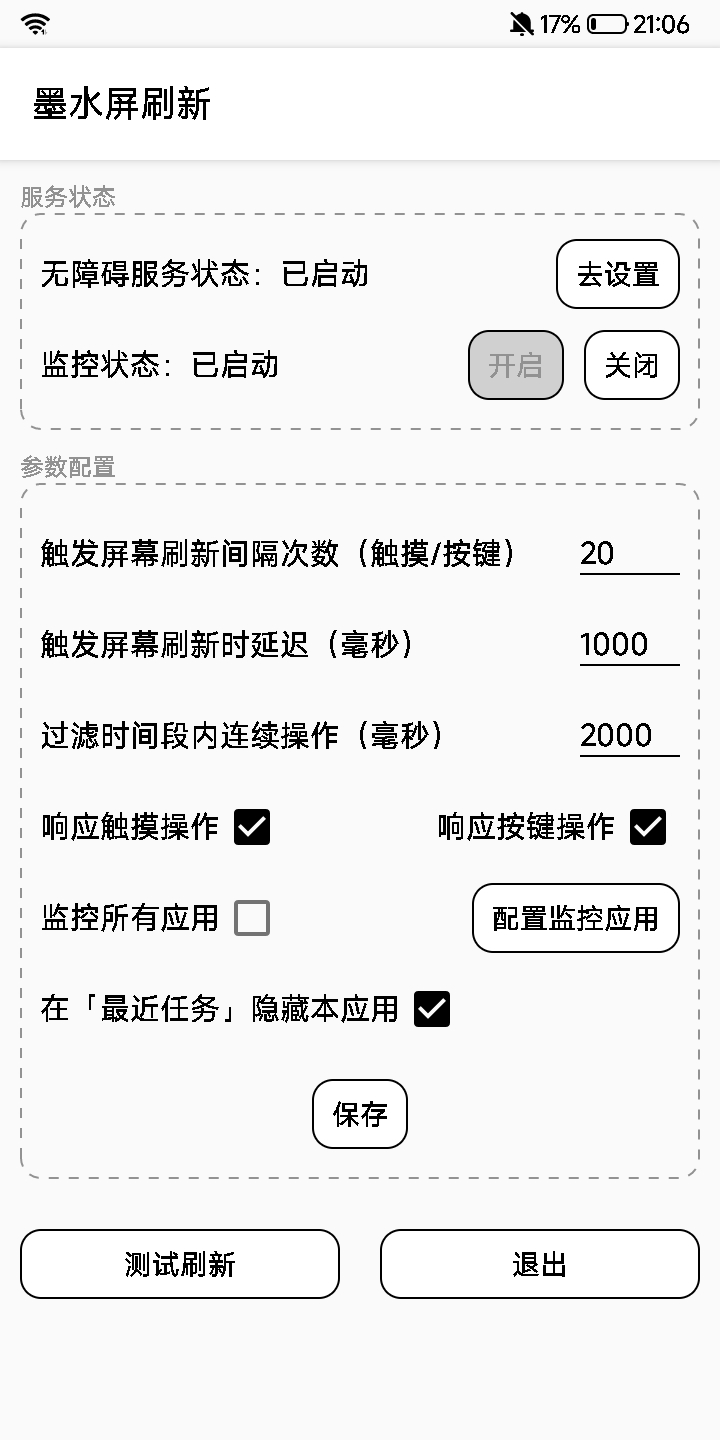
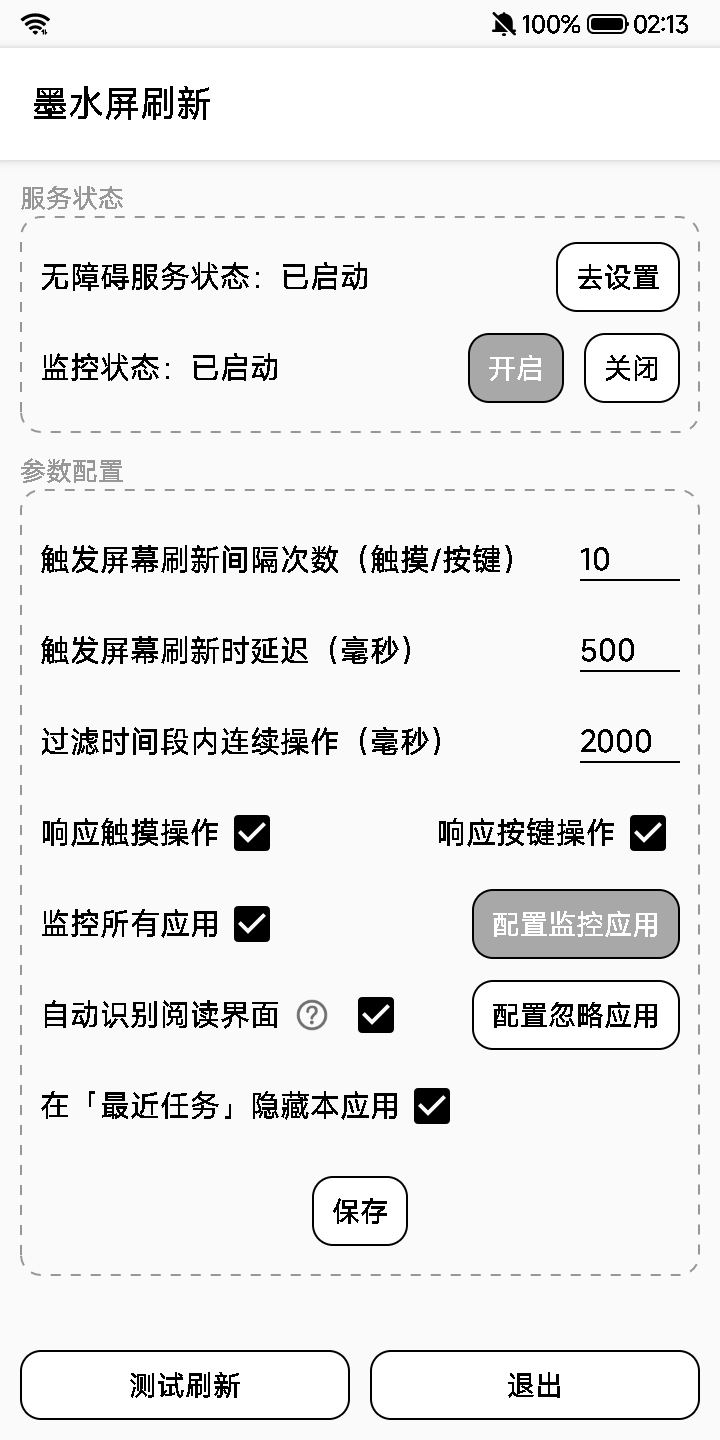
v1.3.0 增加锁屏状态获取，更新README

diff --git a/app/src/main/java/com/liziwa/hisense_autorefresh/EInkAccessibilityService.kt b/app/src/main/java/com/liziwa/hisense_autorefresh/EInkAccessibilityService.kt
@@ -119,6 +119,9 @@ class EInkAccessibilityService : AccessibilityService(), View.OnTouchListener {
         super.onCreate()
         XLog.d("无障碍服务创建")
         val filter = IntentFilter(ACTION_CONFIG_CHANGE)
+        // 监听屏幕息屏/亮屏，用于锁屏时重置计数
+        filter.addAction(Intent.ACTION_SCREEN_OFF)
+        filter.addAction(Intent.ACTION_SCREEN_ON)
         prefs = AppPreferences.getInstance(applicationContext)
         ContextCompat.registerReceiver(
             this,
@@ -131,8 +134,19 @@ class EInkAccessibilityService : AccessibilityService(), View.OnTouchListener {
 
     val myReceiver: BroadcastReceiver = object : BroadcastReceiver() {
         override fun onReceive(context: Context?, intent: Intent?) {
-            if (intent?.action == ACTION_CONFIG_CHANGE) {
-                updateConfig()
+            when (intent?.action) {
+                ACTION_CONFIG_CHANGE -> updateConfig()
+                // 进入锁屏/息屏：重置操作计数，避免锁屏前的操作遗留
+                Intent.ACTION_SCREEN_OFF -> {
+                    XLog.d("屏幕息屏（锁屏），重置操作计数")
+                    clickCount = 0
+                    setReadingState(false)
+                }
+                // 亮屏解锁：恢复默认阅读态（自动识别开启时由读屏重新判定）
+                Intent.ACTION_SCREEN_ON -> {
+                    XLog.d("屏幕亮屏（解锁），重置阅读态等待重新判定")
+                    setReadingState(false)
+                }
             }
         }
     }

diff --git a/app/src/main/java/com/liziwa/hisense_autorefresh/activity/AppsActivity.kt b/app/src/main/java/com/liziwa/hisense_autorefresh/activity/AppsActivity.kt
@@ -62,6 +62,8 @@ class AppsActivity : AppCompatActivity(), View.OnClickListener, CoroutineScope {
         job = Job()
         prefs = AppPreferences.getInstance(applicationContext)
         mode = intent?.getStringExtra(EXTRA_MODE) ?: MODE_MONITOR
+        // 按模式设置标题：监控模式显示“监控应用列表”，忽略应用(白名单)模式显示“忽略应用列表”
+        setTitle(if (mode == MODE_READING_WHITELIST) R.string.title_activity_apps_whitelist else R.string.title_activity_apps)
         XLog.d("AppsActivity: onCreate mode=$mode")
 
         binding.btnSave.setOnClickListener { this.onClick(it) }

diff --git a/README.md b/README.md
@@ -1,21 +1,98 @@
-# Hisense E-ink auto refresh
+# Hisense E-ink Auto Refresh（海信墨水屏自动刷新）
 
-海信墨水屏自动刷新屏幕工具，参考自RefreshAi，由于没有中文所以自己简单做了一款，可以监控在指定APP下的触摸、按键等操作次数，并根据间隔次数刷新墨水屏，可以有效解决阅读时墨水屏残影的问题。
+海信墨水屏设备的**强制全屏刷新**工具。监控前台应用内的触摸 / 按键操作次数，达到设定阈值后调用厂商 EPD 接口执行一次全局刷新，有效消除阅读时的墨水屏残影。
 
+> 参考自 RefreshAi 项目；因原项目无中文且功能有限，故自行实现并补充了阅读界面自动识别等能力。
 
+---
 
-使用方法：
+## 功能特性
 
-1. 电脑安装adb驱动（请自行搜索下载）
+- **操作计数刷新**：统计指定范围内的触摸 / 按键操作，累计达到「刷新间隔」后自动刷新一次。
+- **监控范围可配**：
+  - 监控所有应用（默认）
+  - 仅监控指定应用（「配置监控应用」）
+- **自动识别阅读界面**：开启后，切换界面延迟 1 秒读屏统计文字量，**正文文字超过阈值（默认 150 字）才判定为阅读界面并计入操作**，避免在非阅读界面（如菜单、设置）误刷新。
+- **忽略应用（白名单）**：部分付费阅读应用加密后无法读屏，可加入白名单，**直接视为阅读界面并跳过读屏**，优先级最高（即使是系统应用命中白名单也生效）。
+- **系统应用自动跳过**：切换到的界面若是系统应用，默认不作为阅读界面、跳过读屏。
+- **锁屏重置**：进入锁屏 / 息屏时自动重置操作计数与阅读状态，解锁后重新判定，避免残留计数误触发刷新。
+- **开机自启**：设备重启后自动拉起无障碍服务与监控。
+- **E-ink 友好 UI**：去除按钮 / 复选框按下效果与列表回弹光晕，适配墨水屏刷新慢、无色彩反馈的特性。
 
-2. 打开开发者选项里的USB调试，并把设备连接到电脑，在弹框询问是否允许USB调试时选择 **允许**
+---
 
-3. 使用cmd执行adb命令  `adb shell settings put global hidden_api_policy 0` 此时屏幕没有任何输出，
+## 工作原理
 
-   然后再次执行 ` adb shell settings get global hidden_api_policy` 此时屏幕输出 `0` 表示命令执行成功
+- 通过 **AccessibilityService**（`TYPE_WINDOW_STATE_CHANGED` + `TYPE_VIEW_CLICKED`）监听前台界面切换与用户操作。
+- 界面切换时根据「白名单 → 系统应用 → 读屏判定」的优先级确定是否为阅读界面。
+- 读屏判定遍历当前窗口节点，**只统计自身及所有祖先均可见的文本内容**（剔除被隐藏节点），避免重复与误判。
+- 刷新通过反射调用海信 `com.hmct.epd.EpdManager.forceClear()` 实现。
+- 配置变更通过 `ACTION_CONFIG_CHANGE` 广播**热更新**，无需重启服务。
 
-4. 重启设备，安装apk，授予对应的权限，然后点击 **测试刷新** 当墨水屏能够正常触发刷新代表接口访问正常，此时可以自由配置监控参数。
+---
 
+## 权限与依赖
 
+| 权限 / 组件 | 用途 |
+| --- | --- |
+| 无障碍服务（AccessibilityService） | 监听界面切换与操作事件（核心） |
+| `SYSTEM_ALERT_WINDOW` | 叠加层监听触摸（可选，开启触摸监控时需要） |
+| `REQUEST_IGNORE_BATTERY_OPTIMIZATIONS` | 防止后台被省电策略杀掉 |
+| `RECEIVE_BOOT_COMPLETED` | 开机自启 |
+| `QUERY_ALL_PACKAGES` | 枚举已安装应用（Android 11+ 包可见性） |
+| `POST_NOTIFICATIONS` | 前台服务通知 |
+
+> 注意：强制刷新依赖海信私有 EPD 接口 `com.hmct.epd.EpdManager`，非海信设备 / 不同系统版本可能不可用（会记录错误日志，不影响其他功能）。
+
+---
+
+## 使用步骤
+
+1. **安装 ADB 驱动**：在电脑上安装 adb 工具（请自行搜索下载）。
+2. **开启 USB 调试**：打开设备的「开发者选项 → USB 调试」，连接电脑并在弹窗中选择 **允许**。
+3. **解除隐藏 API 限制**（关键）：
+   ```bash
+   adb shell settings put global hidden_api_policy 0
+   adb shell settings get global hidden_api_policy   # 输出 0 表示成功
+   ```
+4. **安装并授权**：重启设备后安装 APK，授予无障碍服务、悬浮窗等所需权限。
+5. **测试刷新**：在应用内点击 **测试刷新**，若墨水屏能正常触发一次全局刷新，说明接口访问正常，即可自由配置监控参数。
+
+---
+
+## 配置说明
+
+| 配置项 | 说明 |
+| --- | --- |
+| 监控所有应用 | 开启后对所有前台应用计数；关闭则需通过「配置监控应用」指定目标 |
+| 响应触摸 / 按键 | 分别控制是否统计触摸与按键操作 |
+| 刷新间隔 | 累计多少次操作触发一次刷新 |
+| 忽略时间 | 两次操作的最小间隔，过滤连续重复触发 |
+| 自动识别阅读界面 | 开启后按读屏文字量判定阅读界面（见上） |
+| 配置忽略应用 | 进入「忽略应用列表」，勾选加密 / 特殊应用加入白名单 |
+| 配置监控应用 | 进入「监控应用列表」，勾选需要监控的应用 |
+
+---
+
+## 注意事项
+
+- 自动识别依赖读屏，仅对**可见文本**生效；加密、WebView、画布绘制等非标准文本界面可能识别失败，建议加入白名单。
+- 系统应用与自身应用界面默认不参与读屏判定。
+- 墨水屏刷新较慢，配置过低的刷新间隔可能带来明显闪烁，请按阅读习惯调整。
+
+---
+
+## 截图
 
 <img src="screenshot/screenshot_1.jpg" width="20%" /> <img src="screenshot/screenshot_2.jpg" width="20%" />
+
+---
+
+## 工程结构（要点）
+
+- `EInkAccessibilityService.kt`：核心无障碍服务，负责界面监听、读屏判定、计数与刷新触发。
+- `AppPreferences.kt`：SharedPreferences 配置封装。
+- `activity/MainActivity.kt`：主配置界面。
+- `activity/AppsActivity.kt`：应用选择列表（复用为「监控应用」与「忽略应用」两种模式）。
+- `util/Utils.kt`：刷新接口、系统应用判断、应用枚举等工具。
+- `util/NotificationUtils.kt` / `BootReceiver.kt` / `MyApp.kt`：通知、开机自启、初始化。
